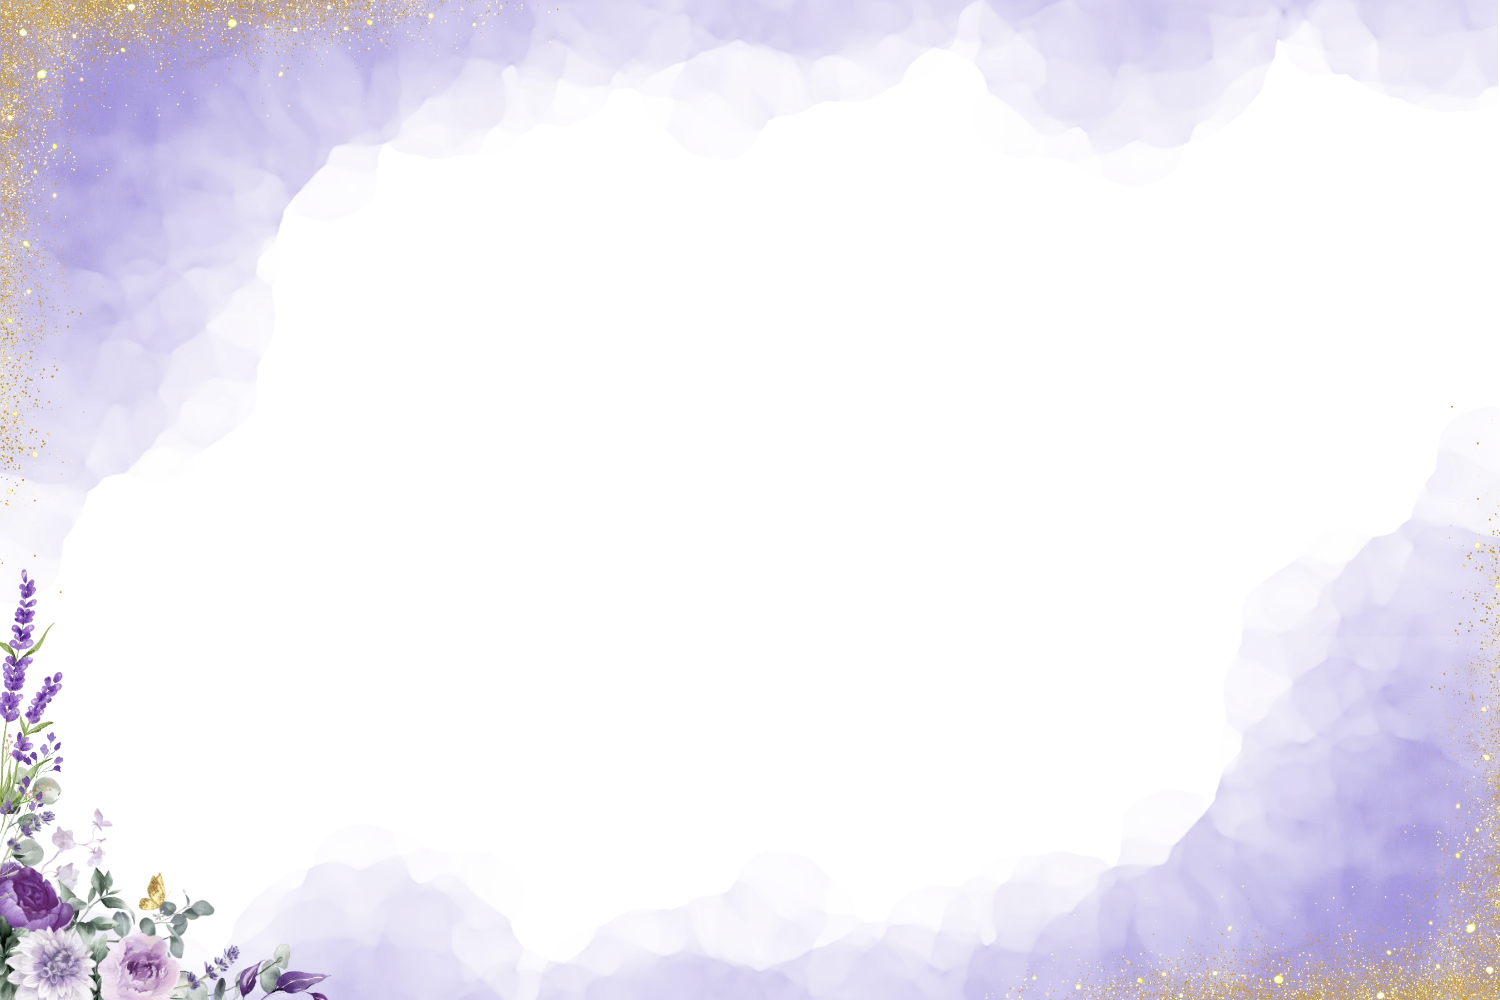
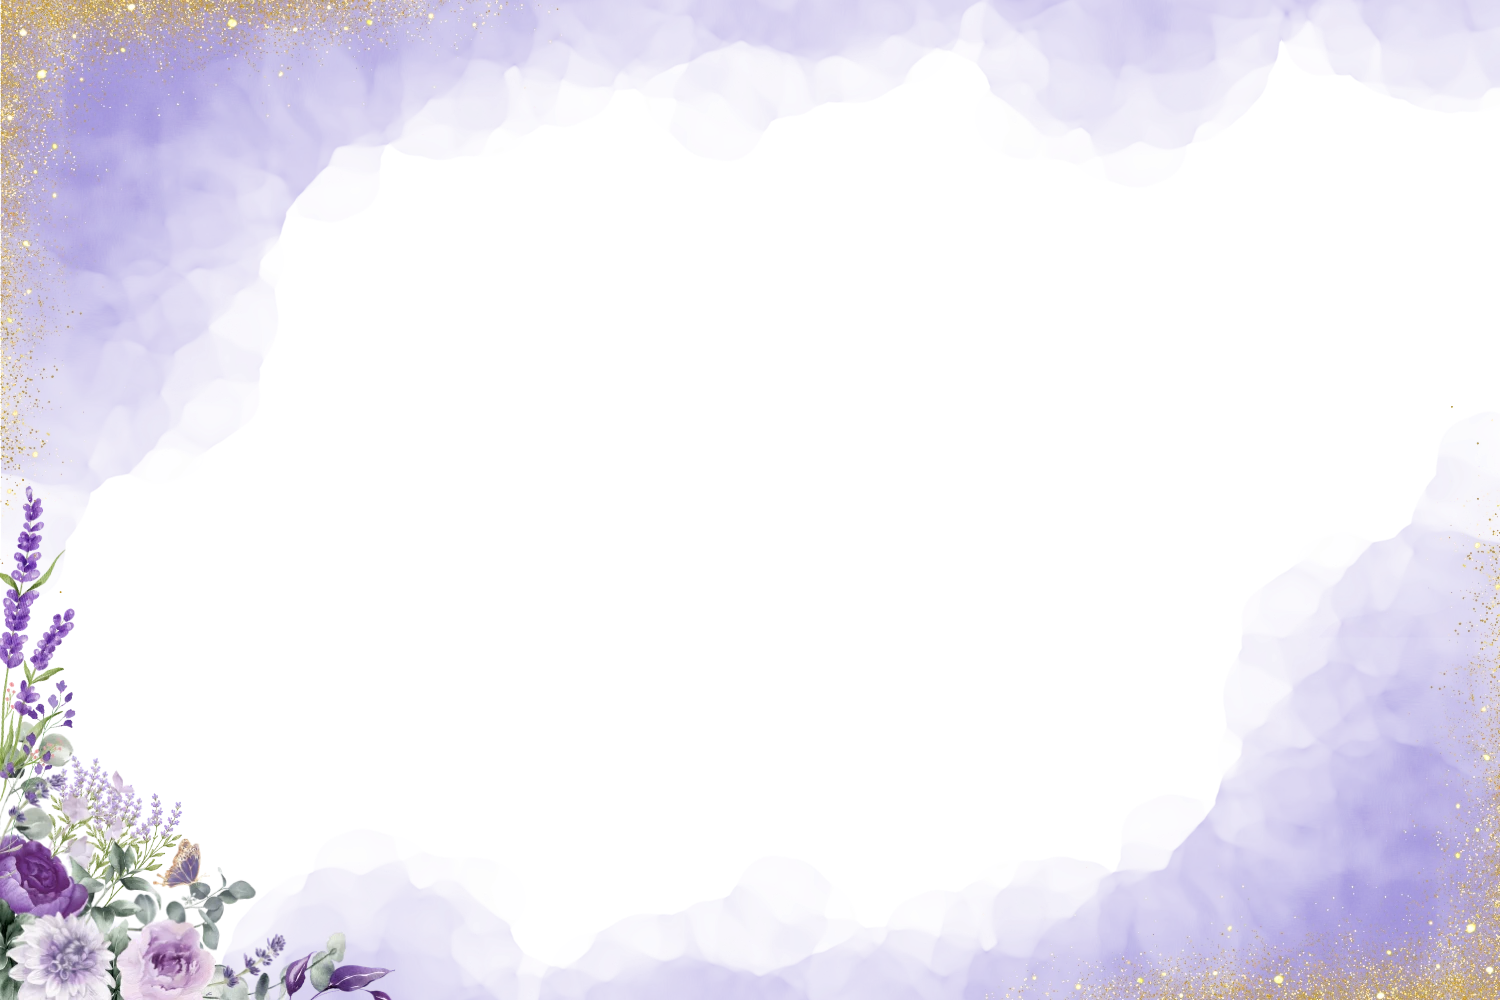
Card do convite: nova arte de moldura, buquê no tamanho original
A arte enviada já traz o buquê maior: ela substitui moldura-aquarela.webp
e o buquê volta a ser desenhado sem ampliação (ESCALA_BUQUE = 1), com a
área nítida do canto alargada para não apagar as lavandas mais altas.

Claude-Session: https://claude.ai/code/session_01RAxa2qcZKzxJmX2CwhkN37

Changed region(s): [[0.0, 0.496, 0.276, 1.0]]

diff --git a/src/app/admin/convidados/CardConvite.tsx b/src/app/admin/convidados/CardConvite.tsx
@@ -243,7 +243,7 @@ function pintarMolduraAquarela(ctx: CanvasRenderingContext2D, moldura: HTMLImage
 }
 
 /** Quanto o buquê do canto cresce em relação à arte original. */
-const ESCALA_BUQUE = 1.25;
+const ESCALA_BUQUE = 1;
 
 function pintarBuque(ctx: CanvasRenderingContext2D, moldura: HTMLImageElement) {
   // Só o canto do buquê, com borda suave para não aparecer o recorte.
@@ -260,7 +260,7 @@ function pintarBuque(ctx: CanvasRenderingContext2D, moldura: HTMLImageElement) {
   c.drawImage(moldura, 0, -ALTURA, LARGURA, ALTURA);
   c.restore();
   c.globalCompositeOperation = "destination-in";
-  const canto = c.createRadialGradient(0, ALTURA, 180 * escala, 0, ALTURA, 440 * escala);
+  const canto = c.createRadialGradient(0, ALTURA, 300 * escala, 0, ALTURA, 600 * escala);
   canto.addColorStop(0, "rgba(0,0,0,1)");
   canto.addColorStop(1, "rgba(0,0,0,0)");
   c.fillStyle = canto;
